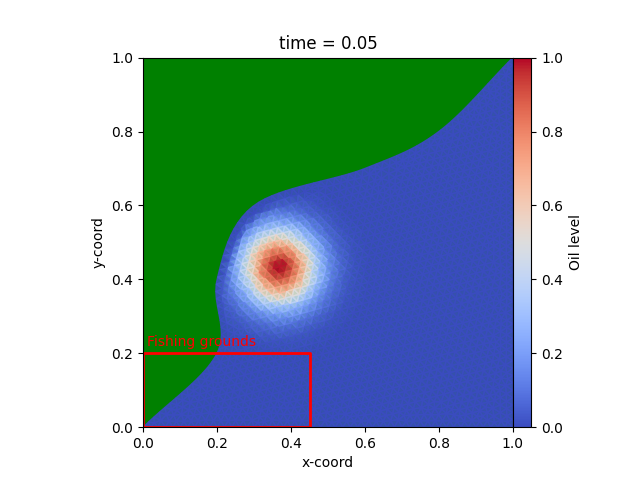
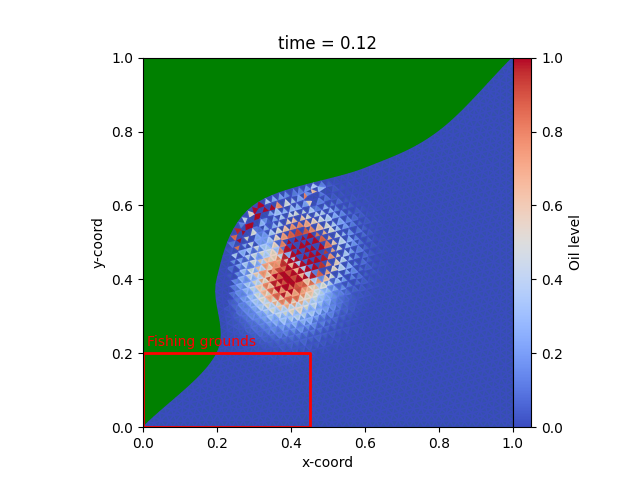
feat: Saving final image

Changed region(s): [[0.3438, 0.375, 0.5938, 0.7188], [0.5312, 0.0625, 0.5938, 0.125], [0.4375, 0.0625, 0.5, 0.125]]

diff --git a/src/controller.py b/src/controller.py
@@ -175,13 +175,16 @@ class Controller:
                 self.create_image(int(i), f"time = {self.timestep_length * (i + 1):.2f}")
                 frequency_counter = 0
 
-    def create_image(self, img_id, title=None):
+    def create_image(self, img_id, title=None, save_path=None):
         image = CreateImage(self.triangle_list)
         image.plot_Triangles()
         image.plot_line(self.fishing_ground, 'Fishing grounds')
         if title is not None:
             image.set_title(f'{title}')
-        image.save_img(f"src/resources/output/image{img_id}.png")
+        if save_path is not None:
+            image.save_img(save_path/f'{img_id}.png')
+        else:
+            image.save_img(f"src/resources/output/image{img_id}.png")
 
     def make_video(self, log_folder_path, vid_length=5.0, name="oil_simulation"):
 

diff --git a/main.py b/main.py
@@ -42,8 +42,9 @@ def run_simulation(n_steps, time_end, mesh_name, borders, write_frequency = None
     print("Time to run simulation:", stop_time - start_time, "seconds.")
     if write_frequency is not None:
         controller.make_video(log_folder_path, time_end)
+    controller.create_image("final_image", f"time: {time_end:.2f}", log_folder_path)
 
 
 border_default = [[0.0, 0.0, 0.45, 0.45, 0.0], [0.0, 0.2, 0.2, 0.0, 0.0]]
-run_simulation(50, 0.5, "bay.msh", border_default, 5, None)
+run_simulation(20, 0.5, "bay.msh", border_default, 5, None)
 
